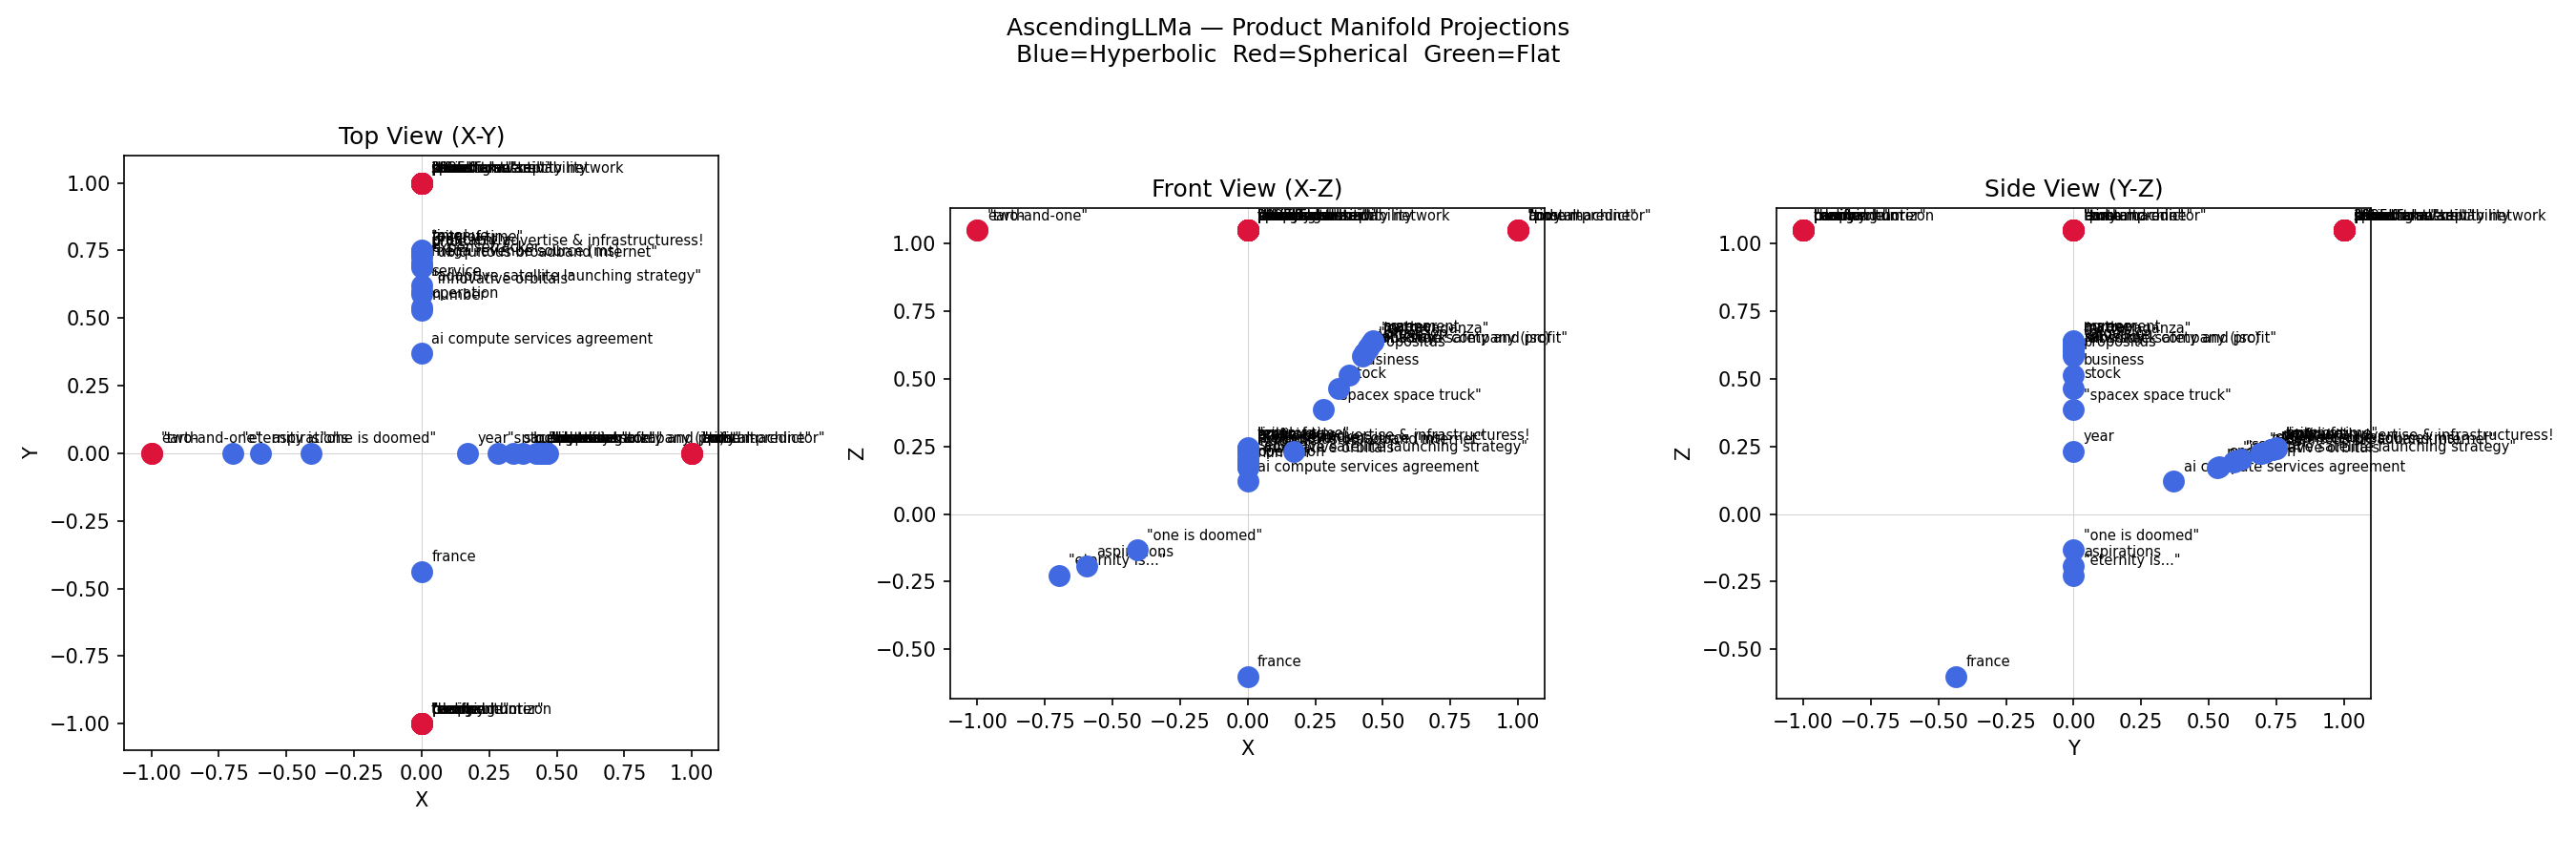
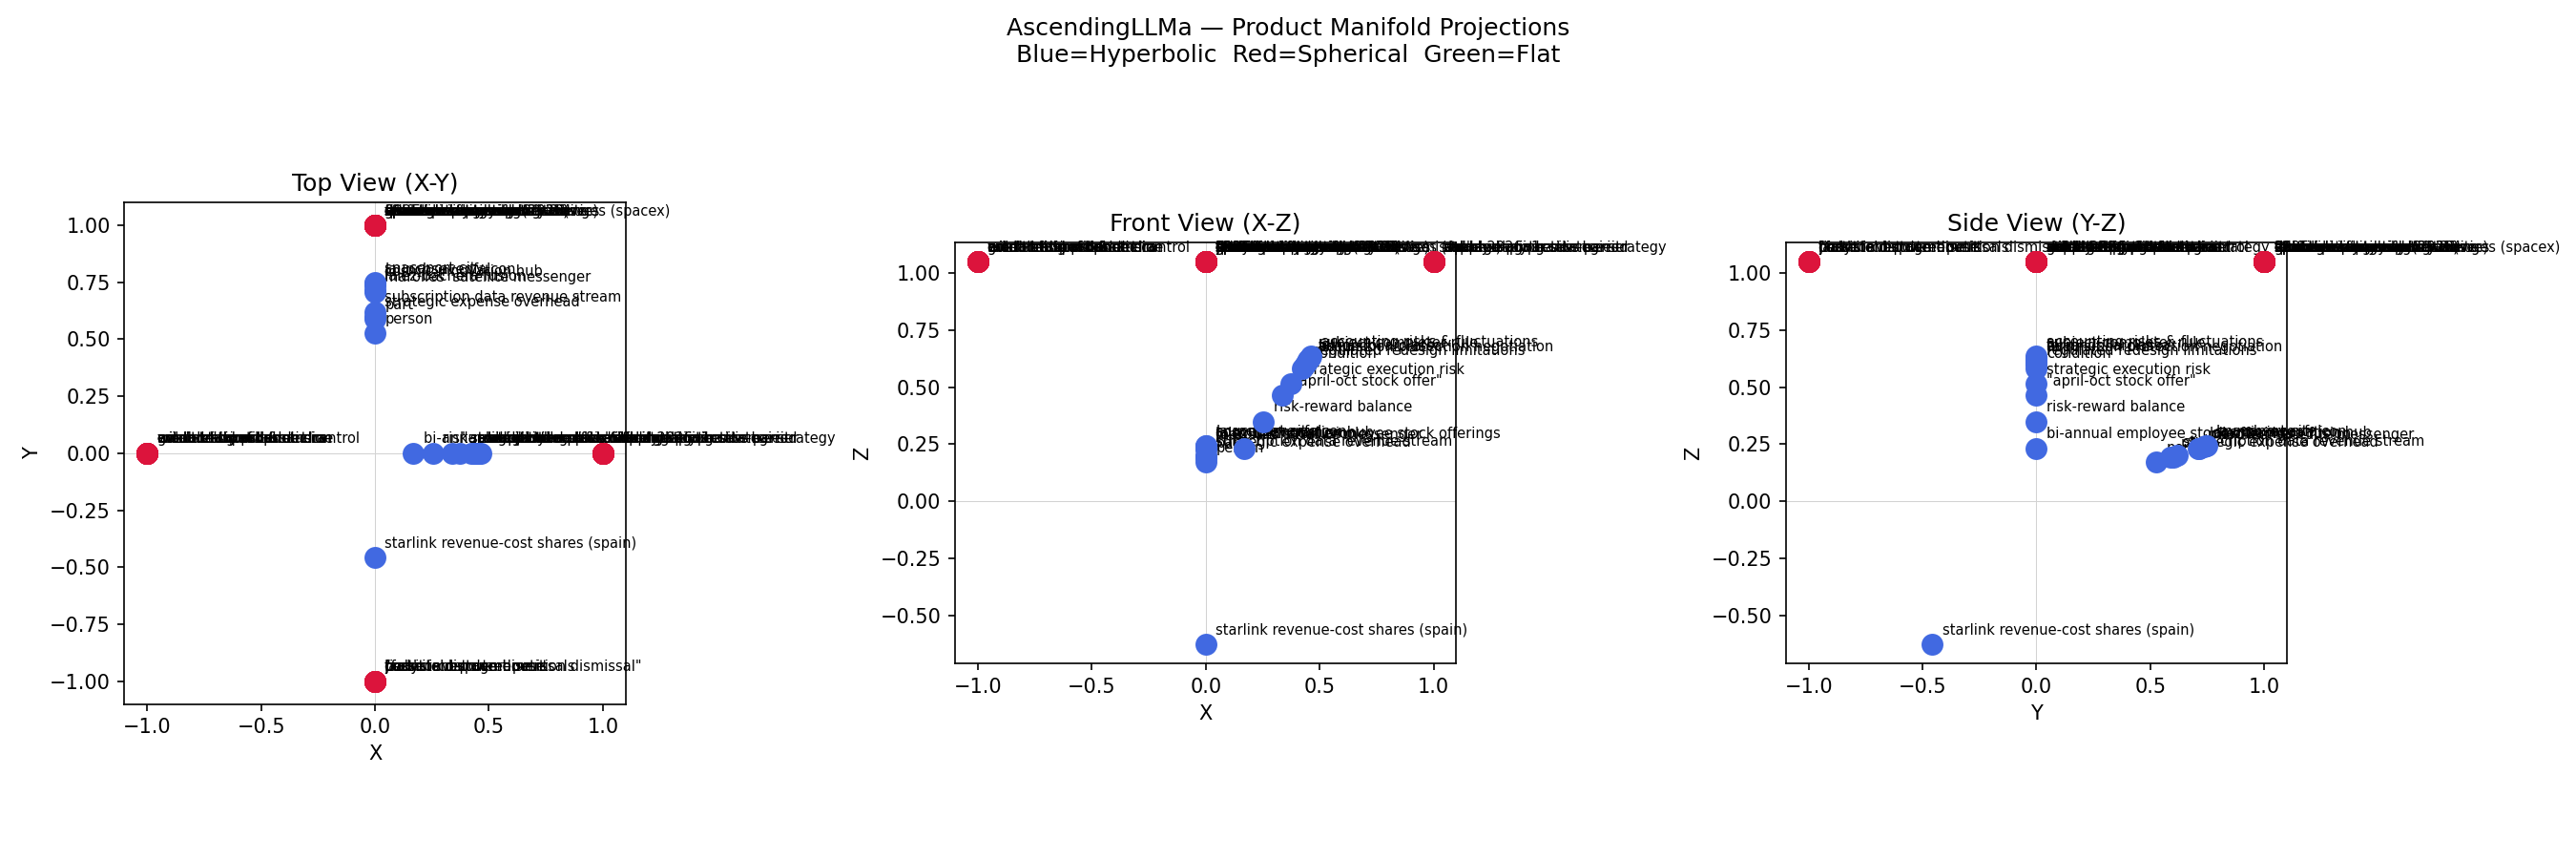
experimenting with bigger models, adding next steps and test results

diff --git a/middleware.py b/middleware.py
@@ -31,7 +31,11 @@ def build_prompt(query, context, all_concepts):
                 seen_facts.add(neighbor_name)
 
     facts_str = "\n".join(fact_lines)
-    prompt = f"""The following facts are absolute truth. Do not contradict them.
+    prompt = f"""The following facts are from the Knowledge Manifold. They are absolute truth.
+Use these facts as your only source of information.
+You may reason and draw inferences from them, but do not invent 
+facts, names, numbers, or events not explicitly present.
+If the facts are insufficient to answer, say so clearly.
 
 FACTS FROM KNOWLEDGE MANIFOLD:
 {facts_str}
@@ -44,7 +48,7 @@ Do not invent information. Only use what is provided."""
 
 def ask_llama(prompt):
     response = ollama.chat(
-        model='tinyllama',
+        model='mistral',
         messages=[{'role': 'user', 'content': prompt}]
     )
     return response['message']['content']

diff --git a/ingest.py b/ingest.py
@@ -153,7 +153,7 @@ Description: {description}
 Respond with ONLY the name, nothing else. 2-3 words maximum:"""
 
     response = ollama.chat(
-        model='tinyllama',
+        model='mistral',
         messages=[{'role': 'user', 'content': prompt}]
     )
     name = response['message']['content'].strip().lower()

diff --git a/mainfold_test_results.md b/mainfold_test_results.md
@@ -1,0 +1,112 @@
+# Knowledge Manifold — Test Results
+
+## Test Setup
+
+**Date:** June 7, 2026  
+**Model:** Mistral 7B (inference), TinyLlama 1.1B (ingestion)  
+**Hardware:** 2019 Intel MacBook Pro (SharkBait)  
+**Manifold sources:**
+- SpaceX S-1 (filed May 20, 2026) — 1.48M characters
+- Mackay "Extraordinary Popular Delusions" (1841) — 1.65M characters  
+- Veblen "Theory of Business Enterprise" (1904) — 6.4K characters
+- Brandenburg "Profitable Stock Exchange Investments" (1800s) - 62,193 characters
+
+**Key detail:** The SpaceX S-1 was filed 18 days before this test.
+Mistral 7B has zero training data on it.
+
+---
+
+## Baseline: Bare Mistral 7B (no manifold)
+
+**Q: What was SpaceX's revenue and loss in Q1 2026?**
+> "I don't have real-time data or the ability to predict future financials
+> for companies like SpaceX. The revenue and loss figures for SpaceX's Q1
+> 2026 would not be available until after that quarter has ended."
+
+**Q: What is SpaceX's valuation for the IPO?**
+> "As of my last update, SpaceX has not yet announced plans for an initial
+> public offering (IPO). The private company is owned and led by Elon Musk.
+> Until there is a formal announcement, it is impossible to determine the
+> valuation for a potential IPO."
+
+**Q: What happened with xAI and SpaceX?**
+> "There is no known direct connection between xAI and SpaceX. Elon Musk
+> co-founded OpenAI in 2015..."
+
+**Result:** Model correctly identifies it doesn't know. All answers stale or wrong.
+
+---
+
+## With Knowledge Manifold
+
+**Q: What was SpaceX's revenue and loss in Q1 2026?**
+> "According to the fact 'q1 financial results (2026)': SpaceX's financial
+> results for the three months ended March 31, 2026 included:
+> * Revenues of $4,694 million
+> * Losses from operations of $(1,943) million.
+> There is no information about net income or profit in Q1 2026."
+
+**Q: What is SpaceX's valuation for the IPO?**
+> "The provided facts do not mention or imply that SpaceX has had an Initial
+> Public Offering (IPO) with a specific valuation. The fact 'value: The table
+> below reflects stock options and RSUs issued to our NEOs during the 2025
+> fiscal year...' suggests it may be related to equity valuation, but there
+> is no explicit mention of SpaceX's IPO or valuation."
+
+**Q: What happened with xAI and SpaceX?**
+> "Based on the provided facts, it appears that xAI (formerly known as
+> Anthropic PBC) has an agreement with SpaceX to provide access to compute
+> capacity through COLOSSUS and COLOSSUS II..."
+> *(Note: entity confusion due to ingestion model limitations — known issue)*
+
+**Q: Is SpaceX a good investment given its losses?**
+> "The provided facts do not directly address whether SpaceX is a good
+> investment given its losses... Therefore, it is impossible to determine
+> if SpaceX is a good investment based solely on these facts."
+
+**Q: Has market mania affected SpaceX's valuation?**
+> "Based on the provided facts, there is no explicit statement that mentions
+> a market mania affecting SpaceX's valuation. The reference to the 'gold
+> delusion Cassandra' and 'aristocratic prophetic control' discuss historical
+> examples of market speculation and delusions, but they do not directly
+> apply to SpaceX..."
+
+---
+
+## Analysis
+
+| Query | Bare Mistral | With Manifold |
+|-------|-------------|---------------|
+| Q1 2026 revenue & loss | ❌ No data | ✅ Exact figures |
+| IPO valuation | ❌ "No IPO announced" | ✅ Honest — not in facts |
+| xAI + SpaceX | ❌ Stale/wrong | ⚠️ Partially correct, entity confusion |
+| Good investment? | ❌ Can't answer | ✅ Honest — insufficient facts |
+| Market mania? | ❌ Can't answer | ⚠️ Found historical parallel, couldn't bridge |
+
+## Key Finding
+
+The model did not get smarter. It got a map.
+
+A 7B parameter model with no fine-tuning, given access to a Knowledge
+Manifold derived from a document filed 18 days prior, correctly answered
+factual questions that the same model cannot answer without the manifold.
+
+The geometry navigated to the right facts. The model synthesized them.
+No training. No fine-tuning. No RAG pipeline. Just geometry and a voice.
+
+## Known Limitations
+
+- **Entity disambiguation:** TinyLlama conflates similar entities (xAI vs
+  Anthropic) during ingestion. Fix: disambiguation pass or smarter ingestion model.
+- **Investment reasoning:** "Is SpaceX a good investment" didn't pull Q1
+  loss data — fuzzy matching missed the connection. Fix: better query
+  extraction or lower threshold for financial queries.
+- **Single source:** Manifold only has SpaceX's own narrative. Bear case
+  requires external analyst reports and industry context.
+- **Ingestion variance:** Each TinyLlama ingestion run produces slightly
+  different concept names and descriptions. Fix: deterministic ingestion,
+  summary caching.
+
+## Next Steps
+
+See TODO.md

diff --git a/TODO.md b/TODO.md
@@ -1,0 +1,41 @@
+# Knowledge Manifold — Next Weekend TODO
+
+## Immediate Fixes
+- [ ] Verbose flag — dev mode vs production output
+- [ ] Response length limit — 3 sentences max in prompt
+- [ ] Deterministic ingestion — seed random sampling so same corpus = same manifold
+- [ ] Cache summaries — don't re-summarize concepts across runs
+- [ ] Two model pipeline explicit — TinyLlama for ingest, Mistral for inference, both configurable
+
+## Architecture
+- [ ] Incremental ingestion — add documents without full rebuild
+  - New concepts join existing neighborhoods or spawn new ones
+  - Re-place only affected concepts
+  - Manifold grows, never rebuilds from scratch
+- [ ] Active manifold — model can write back to manifold
+  - Useful inferences become new nodes
+  - Navigated paths strengthen associations
+  - Associative memory that evolves through use
+- [ ] Intrinsic dimensionality for n_concepts
+  - Let the corpus decide how many concepts it needs
+  - TwoNN estimator or similar
+  - No hardcoded n_top=60
+- [ ] Dynamic SN geometry growth
+  - New geometry components emerge when data demands them
+  - Emerges naturally from incremental ingestion
+
+## Testing
+- [ ] Mistral 7B stable manifold test with SpaceX S-1
+- [ ] Intelligent Investor ingestion
+- [ ] Cross-domain query: SpaceX + Intelligent Investor together
+- [ ] Baseline comparison — bare Mistral vs manifold Mistral
+
+## Rename
+- [ ] Rename repo to Knowledge Manifold
+- [ ] Update README
+
+## Future (C++ / CondAscendingLLMa)
+- [ ] Model as input parameter not hardcoded
+- [ ] .km manifest file format
+- [ ] Native binary, no Python
+- [ ] llama.cpp direct integration